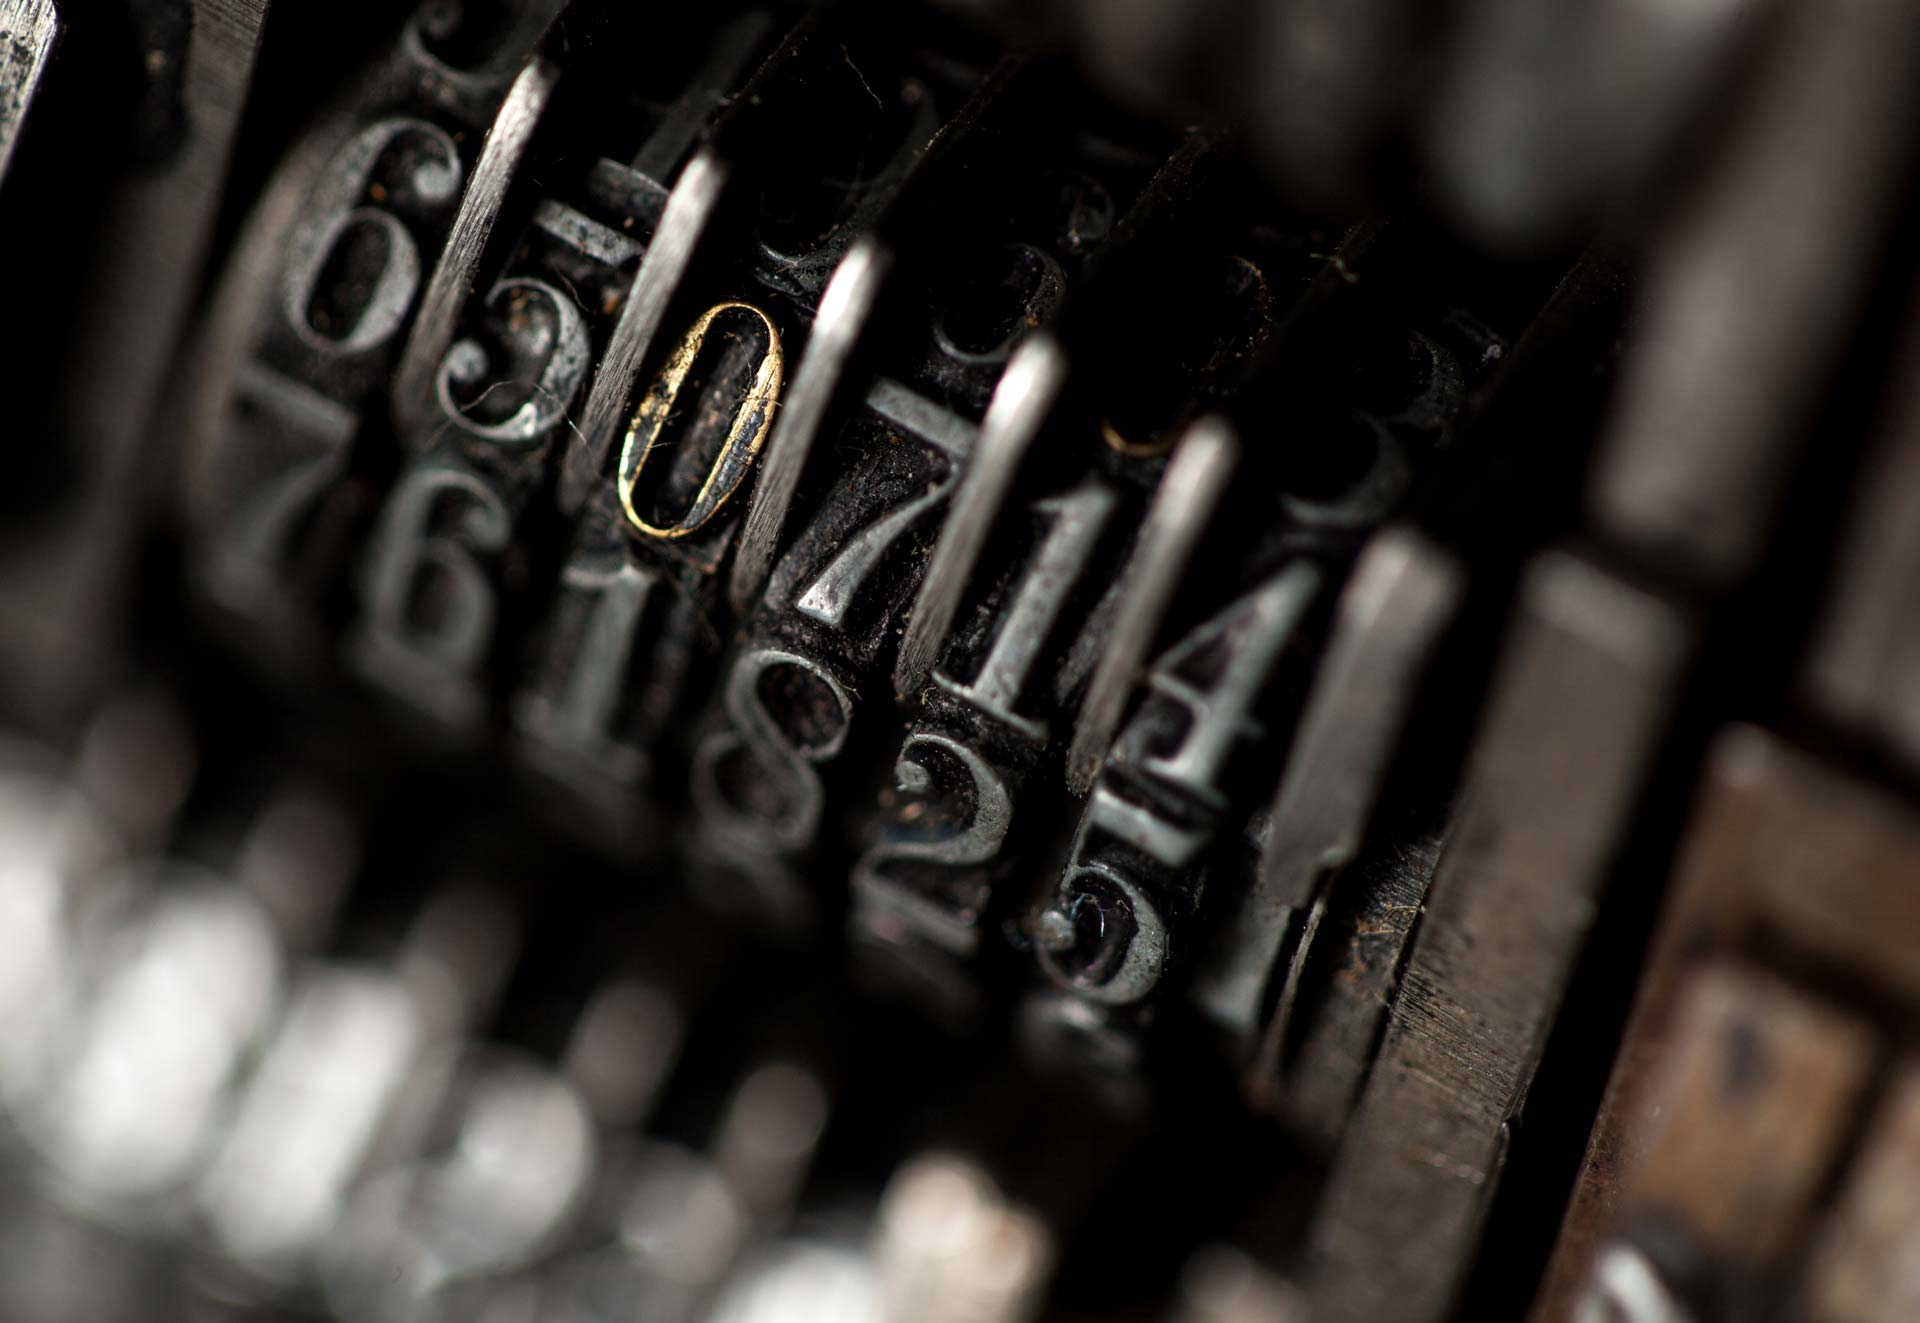
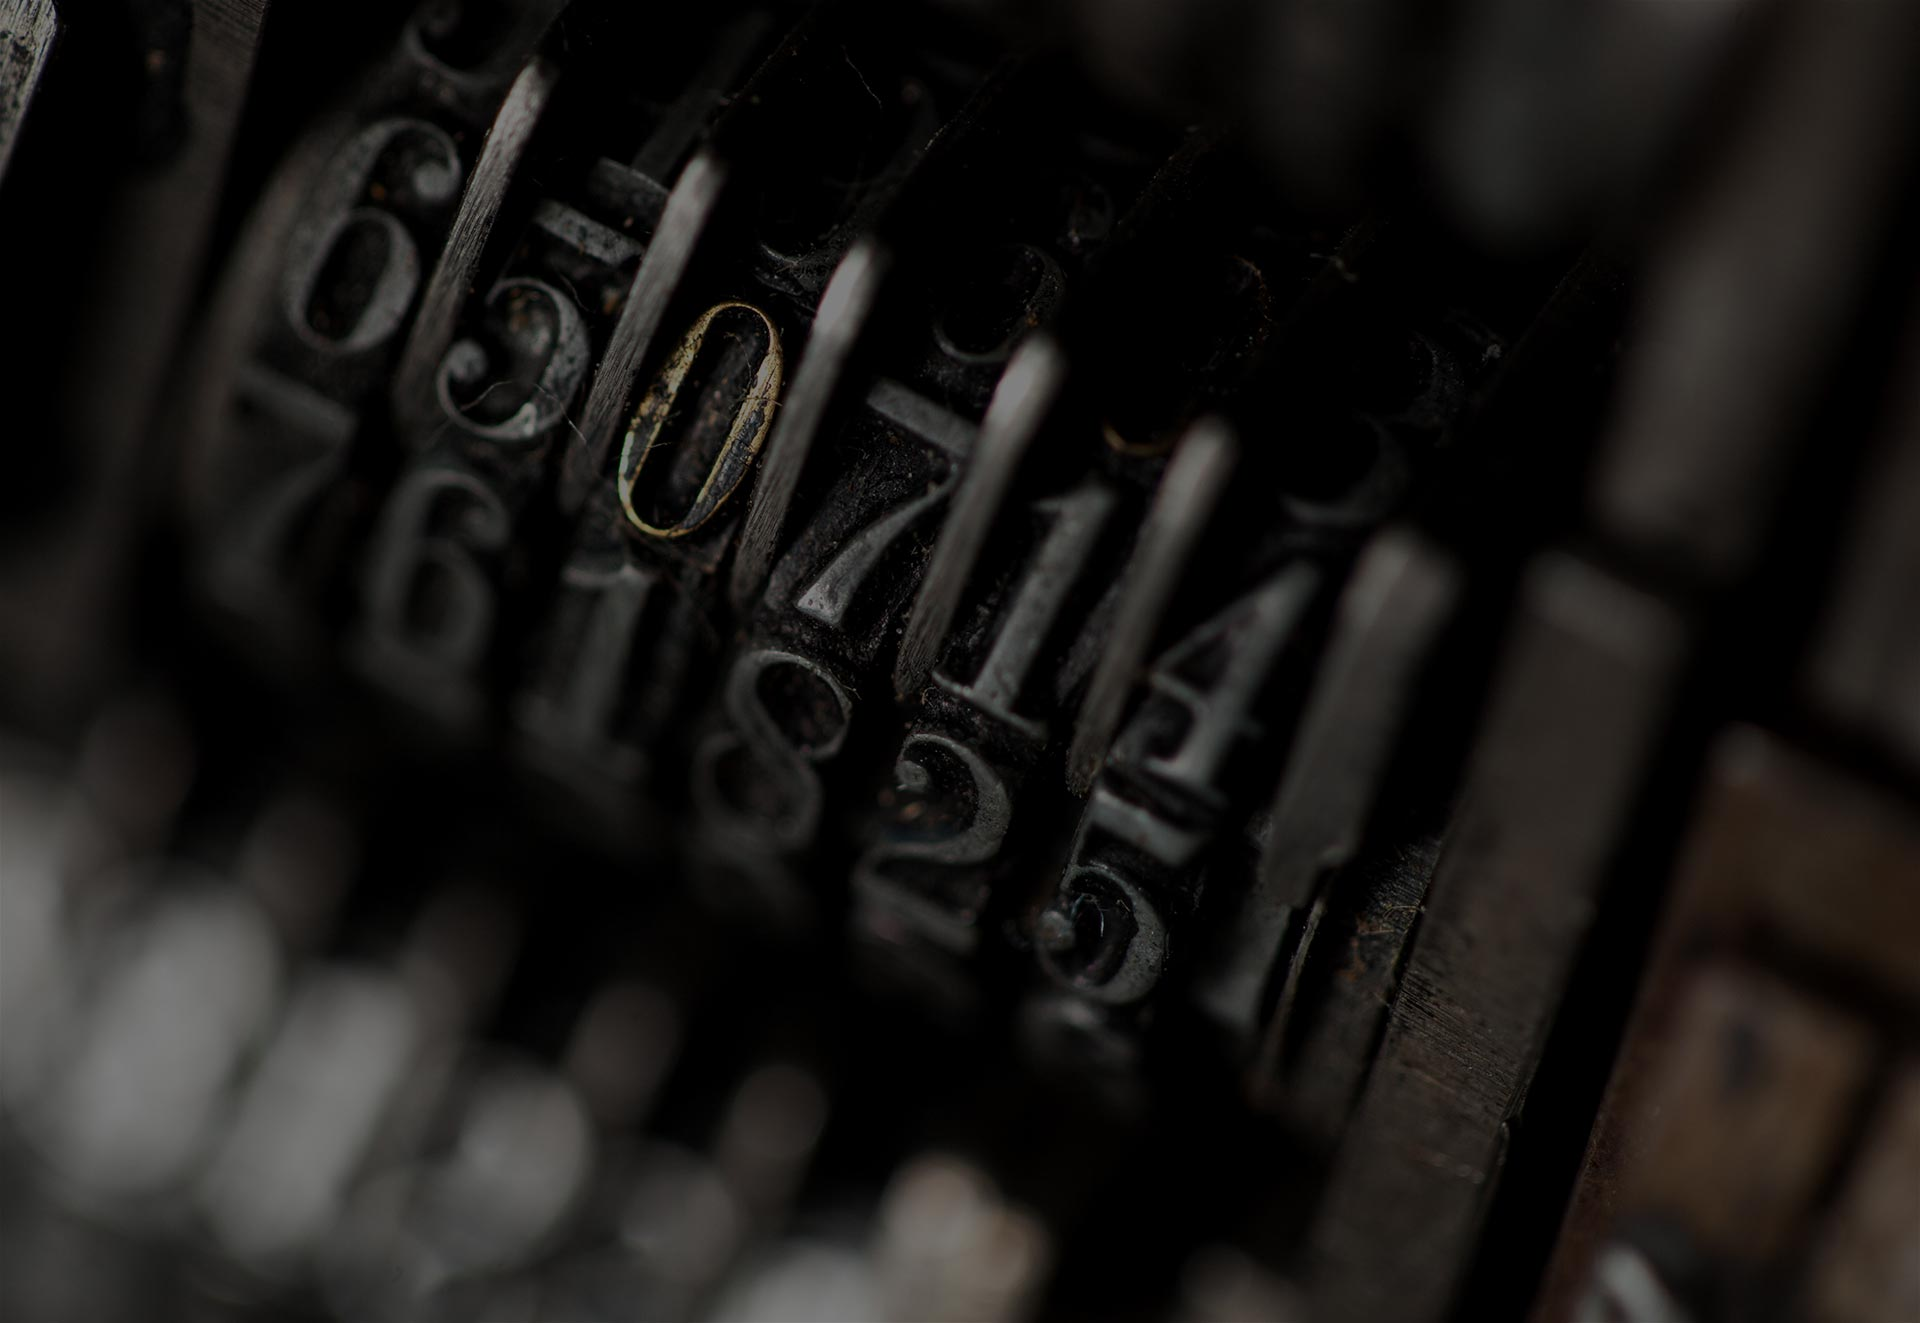
image update

diff --git a/sass/main.scss b/sass/main.scss
@@ -19,16 +19,6 @@ body {
     padding: 3em 0;
     background-image: url("../img/hero-01.jpg");
     background-size: cover;
-    &:before {
-        content: '';
-        position: absolute;
-        top: 0;
-        right: 0;
-        bottom: 0;
-        left: 0;
-        background-image: linear-gradient(to bottom right,#000,#000000);
-        opacity: .6; 
-    }
     img {
         height: 70px !important;
         height: auto;

diff --git a/css/main.css b/css/main.css
@@ -10315,16 +10315,6 @@ body {
   background-image: url("../img/hero-01.jpg");
   background-size: cover;
 }
-.hero:before {
-  content: "";
-  position: absolute;
-  top: 0;
-  right: 0;
-  bottom: 0;
-  left: 0;
-  background-image: linear-gradient(to bottom right, #000, #000000);
-  opacity: 0.6;
-}
 .hero img {
   height: 70px !important;
   height: auto;
